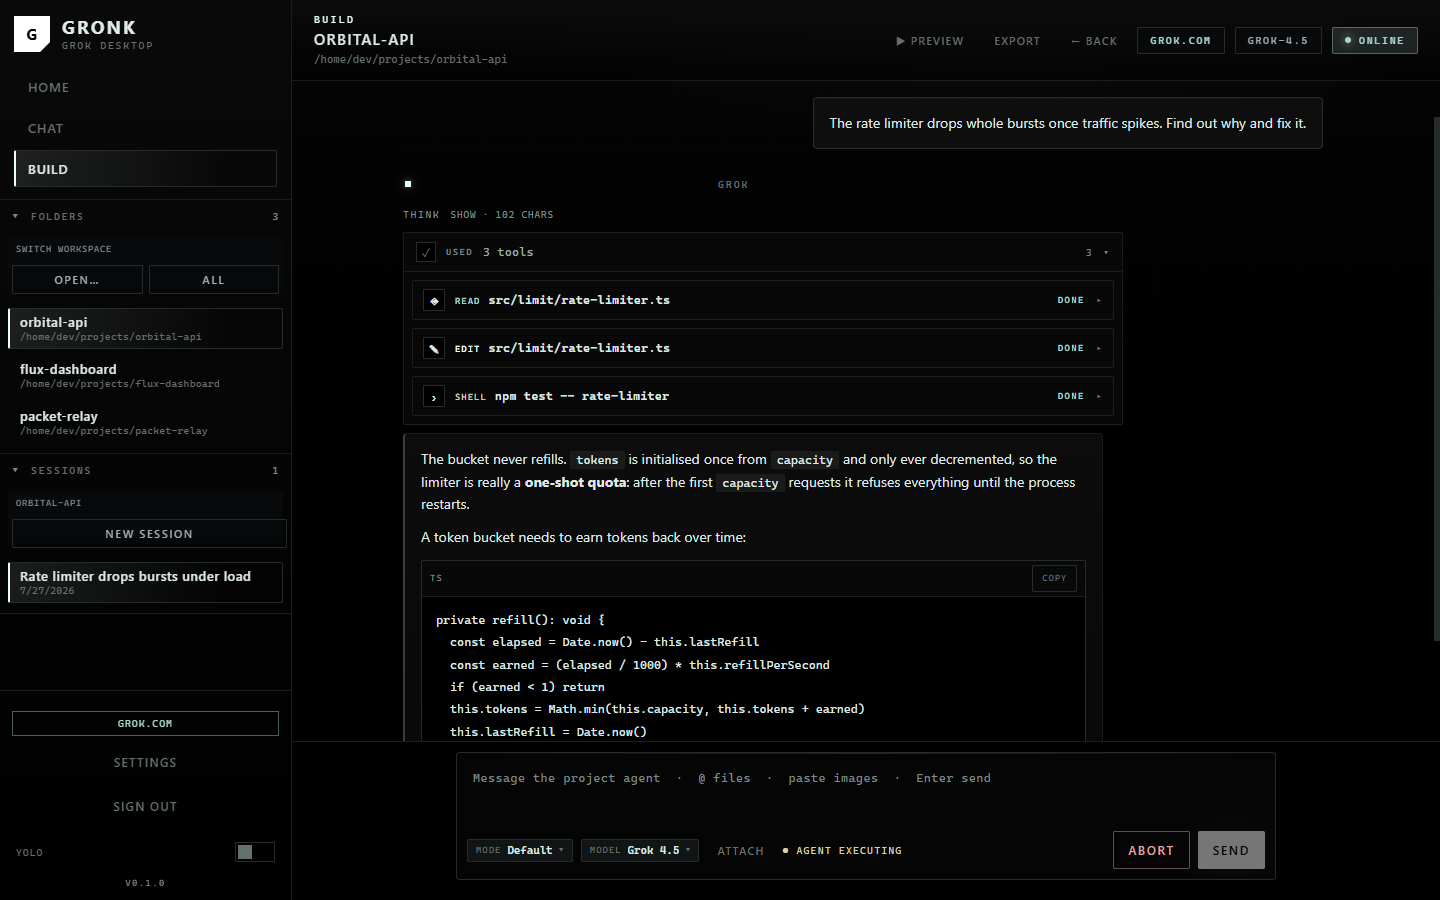
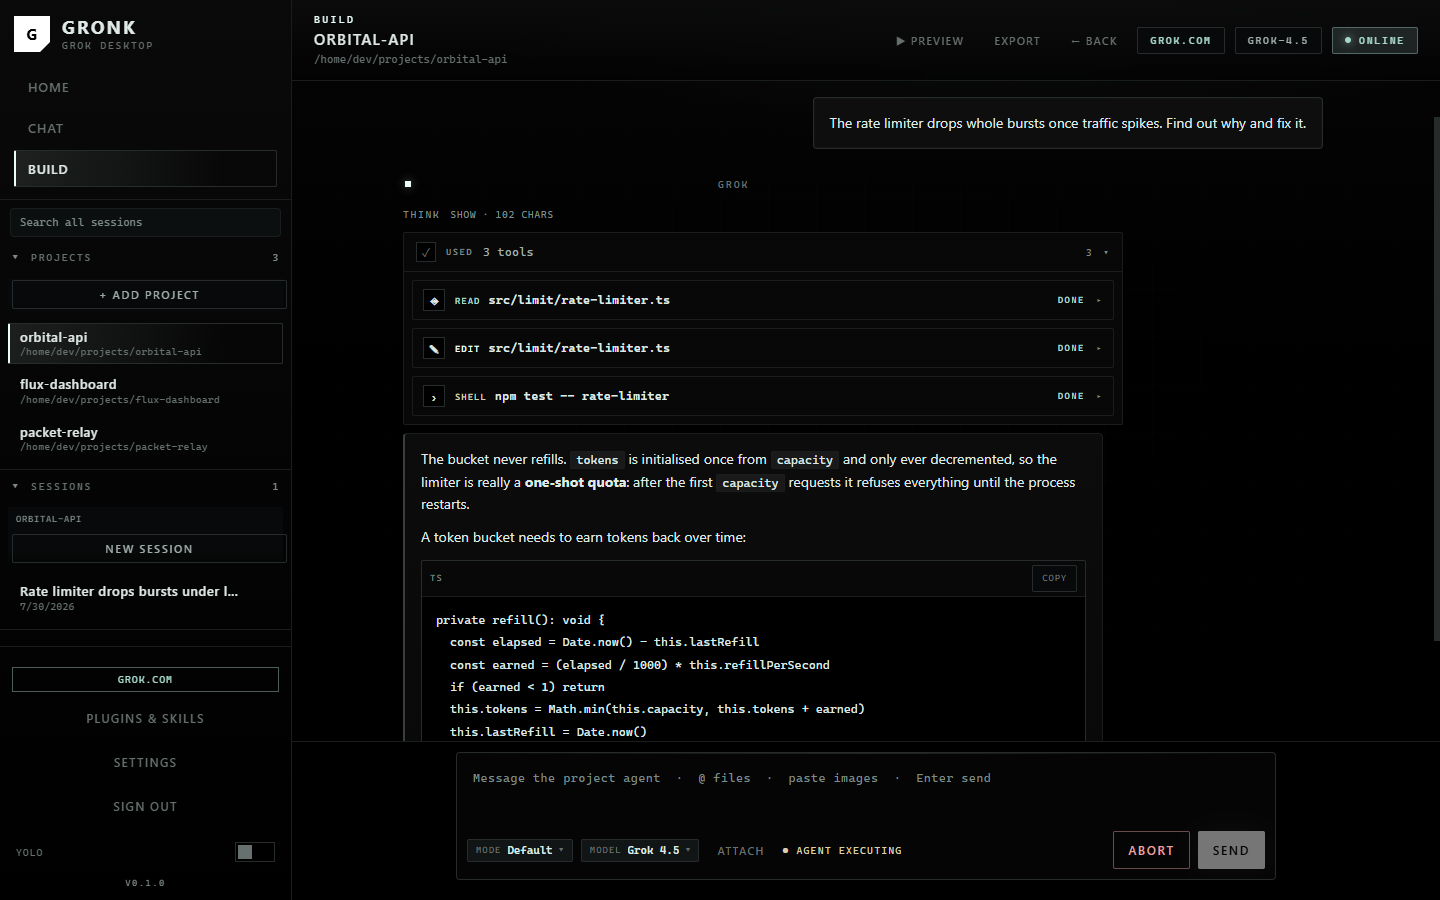
docs: rewrite the README around what the app looks like
The old one led with architecture and buried the app itself. This leads with a
screenshot, then Download, then one section per thing you can actually see, each
with its own image: tool cards, the permission prompt, search, the Skills tab,
and plugin provenance.

Images regenerated from the harness at v0.1.4, so they show the current UI rather
than three releases ago. Two that nothing references any more are deleted rather
than left as dead assets.

No em dashes, per request: verified zero. Every image link resolves and every npm
script the README names exists.

Changed region(s): [[0.0, 0.2178, 0.1562, 0.5911], [0.0, 0.5911, 0.1875, 0.6844], [0.0625, 0.7467, 0.125, 0.8089]]

diff --git a/README.md b/README.md
@@ -1,150 +1,148 @@
 # Gronk
 
-A desktop app for the [Grok Build CLI](https://x.ai). It runs your local `grok`
-binary as a child process and talks to it over ACP (`grok agent stdio`).
-
-Gronk is a client, not a service. It has no backend, ships no credentials, and
-never calls a model itself.
-
-> **Status: pre-release.** Tested on Windows. macOS and Linux builds have not
-> been run yet. Reports welcome.
+A desktop app for the [Grok Build CLI](https://x.ai). Your projects, your
+sessions, your history, in a window instead of a terminal.
 
 ![Gronk Home, showing recent projects and an activity heatmap](docs/images/home.png)
 
+> **Pre-release.** Built and tested on Windows. The macOS and Linux installers
+> come from CI and have not been run by the author yet. Reports welcome.
+
+## Download
+
+[**Latest release**](https://github.com/HesNotTheGuy/gronk/releases/latest) for
+Windows, macOS and Linux.
+
+Installers are unsigned, so your OS will warn you on first launch. On macOS,
+right-click the app and choose **Open**. On Windows, click **More info** then
+**Run anyway**.
+
 ## What it does
 
-| Surface | Purpose |
-|---------|---------|
-| Home | Recent projects, sessions, activity |
-| Chat | General conversation, backed by the CLI |
-| Build | Coding agent in a project folder |
+Gronk runs your local `grok` binary as a child process and talks to it over ACP.
+No backend, no bundled credentials, no model calls of its own. You sign in with
+your own Grok account.
 
-Build runs the agent in a project folder. Tool calls appear as cards you can
-open, showing what was read, edited or run.
+| | |
+|---|---|
+| **Chat** | General conversation. No folder needed. |
+| **Build** | A coding agent pointed at a project on your computer. |
 
-![A Build session: tool call cards for read, edit and shell, with the reply below](docs/images/build.png)
+### Watch the agent work
 
-Before a tool runs, you see what it wants to do and decide. Edits show the diff.
+Every tool call becomes a card. Reads, edits and shell commands, with diffs.
 
-![A permission prompt showing the diff an edit would apply, with deny and allow options](docs/images/permission.png)
+![A Build session showing tool call cards for read, edit and shell](docs/images/build.png)
 
-Chat is app-level and needs no folder. It uses the same account as the CLI.
+### Approve before anything runs
 
-![The Chat surface listing previous conversations](docs/images/chat.png)
+Edits show you the diff. Commands show you the command. Deny is the default
+button, and the dialog tells you when text came from the model rather than from
+Gronk.
 
-Settings shows account state, CLI health, and the permission mode the agent runs
-under.
+![A permission prompt showing a diff, with deny and allow options](docs/images/permission.png)
 
-![Settings, showing account status, CLI health and permission modes](docs/images/settings.png)
+### Find any conversation
 
-Chat is not a web wrapper. It uses the same ACP path as Build, with a
-conversational system prompt and a sandbox working directory, so it never
-appears in your project list.
+Search titles and message text across Chat and Build at once. Results say where
+they matched and which surface they came from.
+
+![Sidebar search showing results with matching snippets](docs/images/search.png)
+
+### See your skills
+
+Every skill on your machine, yours and the ones bundled with the CLI. A skill is
+a folder containing `SKILL.md`. Dropping it into `~/.grok/skills` is the whole
+install.
+
+![The Skills tab listing installed skills](docs/images/skills.png)
+
+### Know where a plugin came from
+
+Plugin cards show the account that published them, like `github.com/xai-org`.
+A marketplace name is a string anyone can set, so it is shown as a plain label
+and never as a badge. Gronk marks nothing as verified, because it cannot know.
+
+![Plugin cards showing publisher origins](docs/images/plugins.png)
+
+### Also
+
+- Activity heatmap of your own work
+- Token and cost accounting per session
+- Session restore, rename, archive, export
+- MCP servers and plugins, managed in app
+- Attached preview for a dev server you are running
+- File mentions, image paste, drag and drop
+- Light and dark themes
 
 ## Requirements
 
-1. **The Grok CLI**, installed and on your PATH.
+1. **The Grok CLI**, on your PATH.
    - Windows: `irm https://x.ai/cli/install.ps1 | iex`
    - macOS and Linux: `curl -fsSL https://x.ai/cli/install.sh | bash`
-2. **Your own Grok account.** Sign in from Gronk's sign-in screen, or run
-   `grok login`.
+2. **Your own Grok account.** Sign in from Gronk, or run `grok login`.
 
-Node.js is not required to run Gronk. The installer bundles its own runtime.
-Building from source needs **Node.js 22.18 or newer**, because the test runner
-relies on native TypeScript type stripping.
+Node.js is not required. The installer bundles its own runtime.
 
-## Running it
+## Security
+
+- `contextIsolation: true`, `nodeIntegration: false`. The renderer gets a typed
+  bridge and no Node access.
+- Every IPC handler checks its sender before doing anything else.
+- Agent file access is confined to the project directory, enforced on the
+  resolved real path so symlinks cannot escape.
+- Credentials stay in the Grok CLI. Gronk never stores or forwards a token.
+- Dependencies install with lifecycle scripts disabled and are scanned against a
+  known-malware dataset. See [docs/supply-chain.md](docs/supply-chain.md).
+
+Your conversations are stored on your machine as readable text, which is what
+comparable tools do. Do not paste secrets into a chat.
+
+## Build from source
+
+Needs **Node.js 22.18 or newer** for the test runner's native type stripping.
 
 ```bash
 npm ci --ignore-scripts
 npm run dev
 ```
 
-Or use the guarded install, which disables lifecycle scripts, scans what landed
-against a known-malware dataset, then fetches only the Electron binary:
+Or use the guarded install, which disables lifecycle scripts, scans what landed,
+then fetches only the Electron binary:
 
 ```bash
 npm run setup
 ```
 
-Bare `npm install` is discouraged. npm supply chain worms run in package
-lifecycle scripts. See [docs/supply-chain.md](docs/supply-chain.md).
-
-## Building installers
+Bare `npm install` is discouraged. npm supply chain worms run in lifecycle
+scripts.
 
 ```bash
-npm run dist:win
-npm run dist:linux
-npm run dist:mac
+npm run verify      # typecheck and tests
+npm run dist:win    # installers, per platform
 ```
 
-macOS installers can only be built on macOS. If you do not have a Mac, run the
-"Build installers" workflow from the Actions tab and download the artifact.
-
-## Features
-
-- Sign-in per user, before any agent runs
-- Streaming chat with markdown and code blocks
-- Tool call cards with diffs
-- Permission prompts showing the actual diff before you approve
-- Token and cost usage per session
-- Activity heatmap of your own work
-- Plugins, skills and MCP servers, managed from Settings
-- Session restore, rename, archive, export
-- Attached dev server preview
-- Model picker and permission modes
-- File mentions, image paste, drag and drop
-
-## How it works
-
-```
-React renderer  <--IPC-->  Electron main  --spawn-->  grok agent stdio
-                                                      JSON-RPC (ACP)
-```
-
-The main process owns the child process and the ACP client. Preload exposes a
-typed `window.gronk` API with context isolation on. The renderer has no Node
-access.
-
-Your data lives in the app's `userData` directory as `gronk-store.json`, and can
-be relocated from Settings.
-
-## Security
-
-- `contextIsolation: true`, `nodeIntegration: false`
-- Credentials stay in the Grok CLI (`~/.grok/auth.json` or `XAI_API_KEY`).
-  Gronk never stores or forwards tokens.
-- Tools run with your user's permissions. Treat "Bypass all" as YOLO.
-- Every IPC handler validates its sender and arguments.
+macOS installers can only be built on macOS. Run the "Build installers" workflow
+from the Actions tab if you do not have one.
 
 ## Contributing
 
 See [CONTRIBUTING.md](CONTRIBUTING.md). Security issues go through
 [SECURITY.md](SECURITY.md), not the issue tracker.
 
-```bash
-npm run verify   # typecheck and tests
-npm test         # tests only
-npm run test:live # contract tests against your real Grok CLI, opt-in
-```
-
-Tests must pass on all three platforms in CI.
-
 ## Licence
 
 Apache 2.0. See [LICENSE](LICENSE) and [NOTICE](NOTICE).
 
 You may use, modify and ship Gronk commercially, including in closed source
-products. The licence does not grant rights to the Gronk name or logo, so a fork
-is free to exist but not to call itself Gronk.
+products. The licence does not grant rights to the Gronk name or logo.
 
 **The Grok CLI is not part of Gronk and is not redistributed here.** Gronk
-launches whichever binary you installed yourself. You obtain and use that CLI
-under xAI's terms, with your own account.
+launches whichever binary you installed yourself, under xAI's terms, with your
+own account.
 
 Gronk is an independent project, not affiliated with or endorsed by xAI. "Grok"
 is a trademark of xAI, used here only to describe what this app connects to.
 
 Bundled packages are credited in
-[THIRD-PARTY-NOTICES.md](THIRD-PARTY-NOTICES.md). Electron and Chromium ship
-their own notices inside the packaged app.
+[THIRD-PARTY-NOTICES.md](THIRD-PARTY-NOTICES.md).
